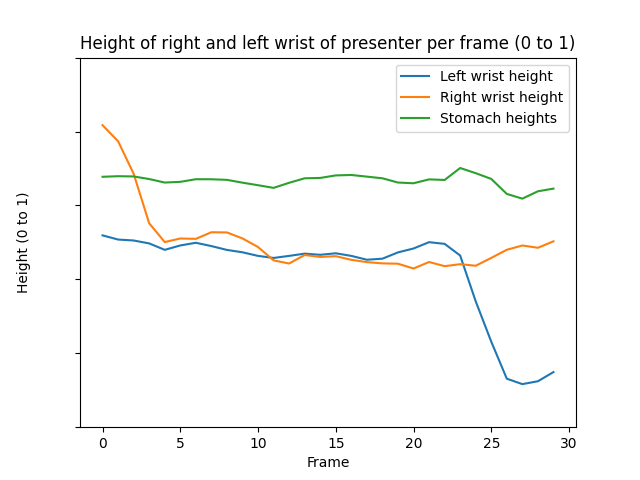
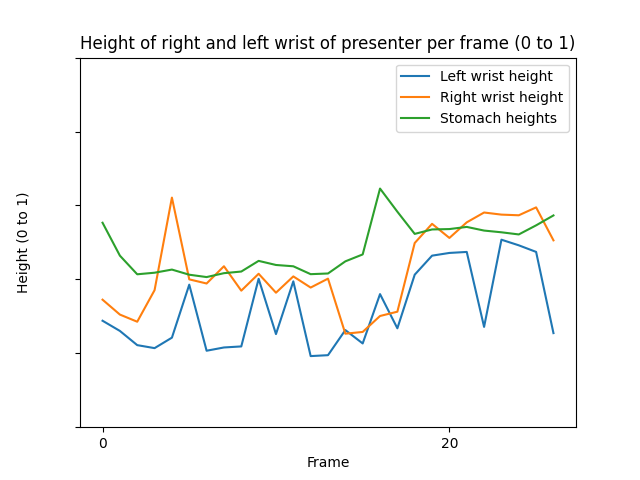
Frame intervals and sections
The application will now analyse every nth frame.
The application will now detect what 'section' of the screen the user is in in a specific frame

diff --git a/Templates/upload.html b/Templates/upload.html
@@ -105,11 +105,68 @@
     input:-webkit-autofill:focus {
         -webkit-box-shadow: 0 0 0 50px whitesmoke inset;
     }
+        .loader {
+        border: 16px solid #f3f3f3; /* Light grey */
+        border-top: 16px solid lime; /* Blue */
+        border-radius: 50%;
+        width: 100px;
+        height: 100px;
+        animation: spin 2s linear infinite;
+        position: absolute;
+        position: fixed; /* fixed keeps it in view regardless of scroll */
+    top: 35%;
+    left: 45%;
+    transform: translate(-50%, -50%); /* center it */
+    z-index: 9999; /* ensure it's in front of all other elements */
+    }
+
+    @keyframes spin {
+        0% { transform: rotate(0deg); }
+        100% { transform: rotate(360deg); }
+    }
+
+    .loader-overlay {
+    display: none; /* Hidden by default */
+    position: fixed;
+    top: 0;
+    left: 0;
+    width: 100%;
+    height: 100%;
+    background-color: rgba(0, 0, 0, 0.5); /* semi-transparent black */
+    z-index: 9998; /* just below loader */
+}
+
     </style>
     <script>
         function switchToCancel(){
-            document.getElementById('submitFile').style.display = 'none'
-            document.getElementById('cancel').style.display = 'inline'
+            document.getElementById('submitFile').style.display = 'none';
+            document.getElementById('cancel').style.display = 'inline';
+        }
+        function changeLoadingText(){
+            const messages = ['Analyzing your awesome presentation...',
+            'Integrating algorithms...',
+            'Doing cool YOLO stuff...',
+            'Do people even read these?',
+            'Calculating space utilised...',
+            'Remember not to close this tab!',
+            "Almost there! Just kidding, I don't actually know.",
+            'Patience is a virtue',
+            'Differentiating algorithms...',
+            "Thanks to the creators of YOLO and Whisper API for making me possible!",
+            'Do you know my brother-in-law, Chatgee Peeti?',
+            'I use an API provided by OpenAI to do my speech-to-text translations.',
+            'I hear there are talks being done with Apple and Microsoft about me...',
+            'I go into my friend Gith Ub a lot!',
+            'Be nice to code',
+            'Accessing your bank account... Opening crypto exchange...',
+            'Thank you for your cooperation.',
+            "What if I'm the human and you're the software?"
+        ]
+            document.getElementById('loadingText').textContent = messages[Math.floor(Math.random() * messages.length)];
+        }
+        function sayHi(){
+            document.getElementById('loader-overlay').style.display='block';
+            let intervalId = setInterval(changeLoadingText, 10000);
         }
     </script>
 </head>
@@ -120,10 +177,22 @@
             <form method="post" enctype=multipart/form-data>
             <label for="fileInput">Script file:</label><input type=file name="scriptFile" class="inputField" id="fileInput"><br>
             <label for="scriptFileInput">Presentation recording file:</label><input type=file name=file class="inputField" accept="video/*" id="scriptFileInput"><br>
-            <input type="submit" value="Submit" id="submitFile">
+            <input type="submit" value="Submit" id="submitFile" onclick="sayHi()">
             <input type="submit" value="Cancel" id="cancel">
             </form>
         </div>
+    </div>
+    <div class="loader-overlay" id="loader-overlay">
+        <br>
+        <br>
+        <br>
+        <br>
+        <br>
+        <br>
+        <br>
+        <br>
+        <h1 id="loadingText" style="text-align: center; background-color: whitesmoke; width: 50%; margin: auto; border-radius: 10px; border-bottom:2px solid lime;">Loading...</h1>
+        <div class="loader"></div>
     </div>
 </body>
 </html>

diff --git a/app.py b/app.py
@@ -44,6 +44,15 @@ def get_video_duration(file_path):
     duration = hours * 3600 + minutes * 60 + seconds
     return duration
 
+def section(x_coord,sectionNo):
+    for n in range(sectionNo):
+        if n == 0:
+            if x_coord >= 0 and x_coord <= (1280/sectionNo)*(n+1):
+                return 1
+        else:
+            if x_coord > (1280/sectionNo)*n and x_coord <= (1280/sectionNo)*(n+1):
+                return n+1
+
 app = Flask(__name__)
 app.config['UPLOAD_FOLDER'] = UPLOAD_FOLDER
 
@@ -82,8 +91,12 @@ def upload():
         min_x = 100000000000000000000000
         StomachHeights = []
         aboveStomachlevel = []
+        x_positions = []
+        sections = []
+        sectionNo = 5
         addLeftIntersectionAtBeginning = False
         addRightIntersectionAtBeginning = False
+        frame_interval = 20
 
         start_time = time.time()
 
@@ -99,8 +112,8 @@ def upload():
             if not ret:
                 break
             try:
-                if frame_number % 2 == 0:
-                    result = model(frame, show=False, conf=0.3, save=True)[0]
+                if frame_number % frame_interval == 0:
+                    result = model(frame, show=True, conf=0.3, save=True)[0]
                     print(frame_number)
                     width = result.orig_shape[1]
                     xyxyboxes = result.boxes.xyxy.tolist()
@@ -133,6 +146,10 @@ def upload():
                     left_wrist_coords.append((left_wrist*-1))
                     right_wrist = result_keypoint_coords[10][1]
                     right_wrist_coords.append((right_wrist*-1))
+                    print(result_keypoint_coords[0][0])
+                    x_positions.append(result_keypoint_coords[0][0])
+                    
+                    sections.append(section(result_keypoint_coords[0][0]*1280,sectionNo))
 
                     presenterStomachHeight = ((result_keypoint_coords[11][1]+result_keypoint_coords[5][1])/2+(result_keypoint_coords[12][1]+result_keypoint_coords[6][1])/2)/2
 
@@ -159,6 +176,26 @@ def upload():
         spaceUtilized = f"{int(round((max_x - min_x)/width * 100,0))}%"
 
         plt.clf()
+        plt.plot(x_positions)
+        plt.title('X-coordinate of nose of presenter per frame')
+        plt.ylabel('X-position')
+        plt.xlabel('Frame')
+        plt.legend()
+        plt.ylim(0,1)
+        plt.xticks(color='w')
+        plt.savefig(f"plot2.png")
+
+        plt.clf()
+        plt.plot(sections)
+        plt.title('Section of presenter per frame')
+        plt.ylabel('X-position')
+        plt.xlabel('Frame')
+        plt.legend()
+        plt.xticks(color='w')
+        plt.ylim(0,5)
+        plt.savefig(f"plot3.png")
+
+        plt.clf()
         plt.plot(left_wrist_coords, label='Left wrist height')
         plt.plot(right_wrist_coords, label='Right wrist height')
         plt.plot(StomachHeights, label='Stomach heights')
@@ -169,7 +206,7 @@ def upload():
         plt.legend()
         plt.yticks(color='w')
         xmin, xmax = plt.xlim()
-        plt.xticks(np.arange(0, xmax + 1, 5))
+        plt.xticks(np.arange(0, xmax + 1, frame_interval))
         plt.savefig(f"plot.png")
 
         left_wrist_coords = np.column_stack((np.arange(1, len(left_wrist_coords) + 1),left_wrist_coords))
@@ -312,13 +349,21 @@ def upload():
 
         pdf.multi_cell(txt=f'Space utilised: {spaceUtilized}',w=0,h=multicellHeight)
 
-        pdf.multi_cell(txt=f'Left-most position (at {round(min_frame/16.82,2)}s):',w=0,h=multicellHeight)
+        pdf.multi_cell(txt=f'Left-most position at {datetime.timedelta(seconds=round(min_frame/fps,0))} (hours:minutes:seconds)',w=0,h=multicellHeight)
 
         pdf.image('min_frame.jpg',w=160,h=90)
 
-        pdf.multi_cell(txt=f'Right-most position (at {round(max_frame/16.82,2)}s):',w=0,h=multicellHeight)
+        pdf.multi_cell(txt=f'Right-most position at {datetime.timedelta(seconds=round(max_frame/fps,0))} (hours:minutes:seconds)',w=0,h=multicellHeight)
 
         pdf.image('max_frame.jpg',w=160,h=90)
+
+        pdf.multi_cell(txt='Graph of nose positions',w=0,h=multicellHeight)
+
+        pdf.image('plot2.png',w=280,h=210)
+
+        pdf.multi_cell(txt='Graph of sections',w=0,h=multicellHeight)
+
+        pdf.image('plot3.png',w=280,h=210)
 
         pdf.set_font(family='Arial',style='B',size=h1)
 
@@ -326,7 +371,7 @@ def upload():
 
         pdf.set_font(family='Arial',style='B',size=h2)
 
-        pdf.multi_cell(txt='Graph',w=0,h=multicellHeight)
+        pdf.multi_cell(txt='Graph of wrist positions ',w=0,h=multicellHeight)
 
         pdf.image('plot.png',w=280,h=210)
 
